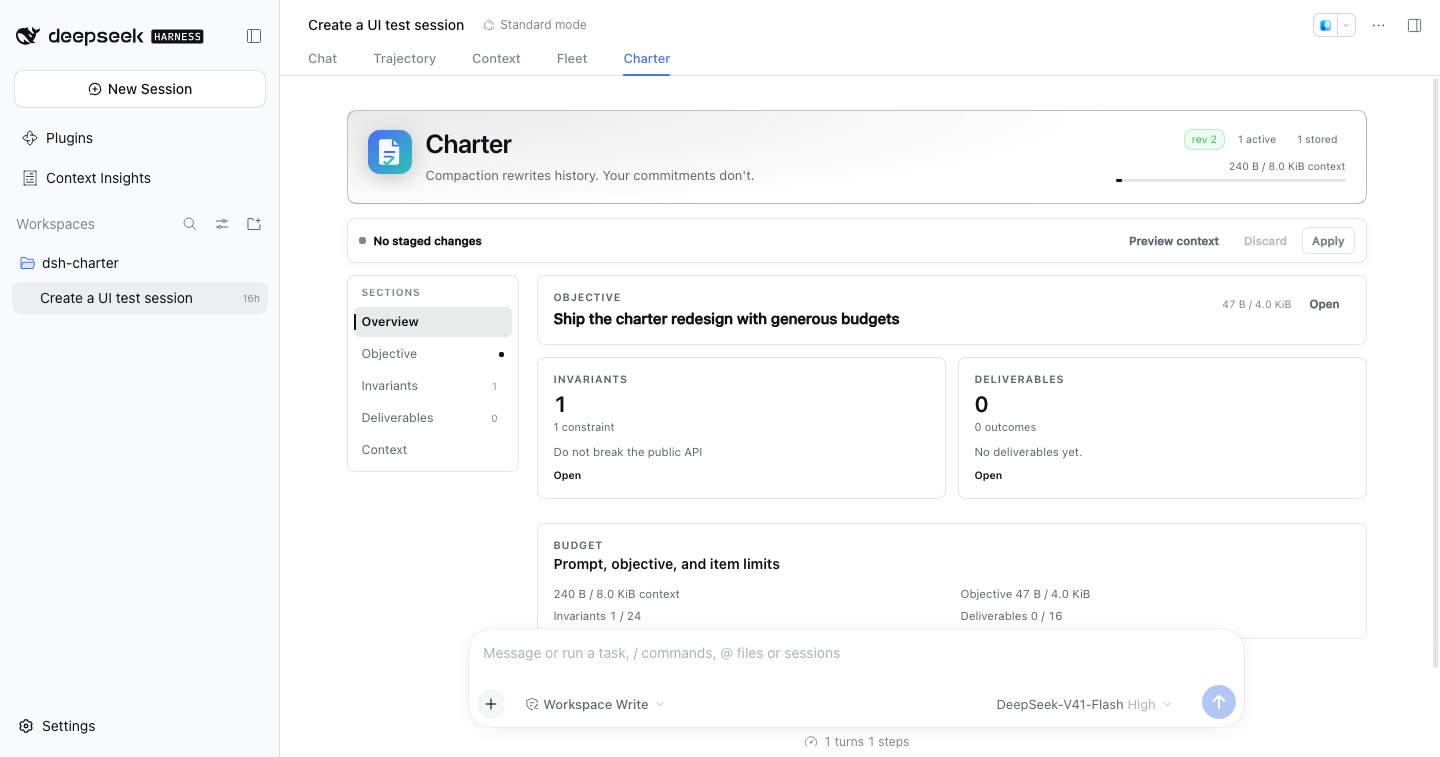
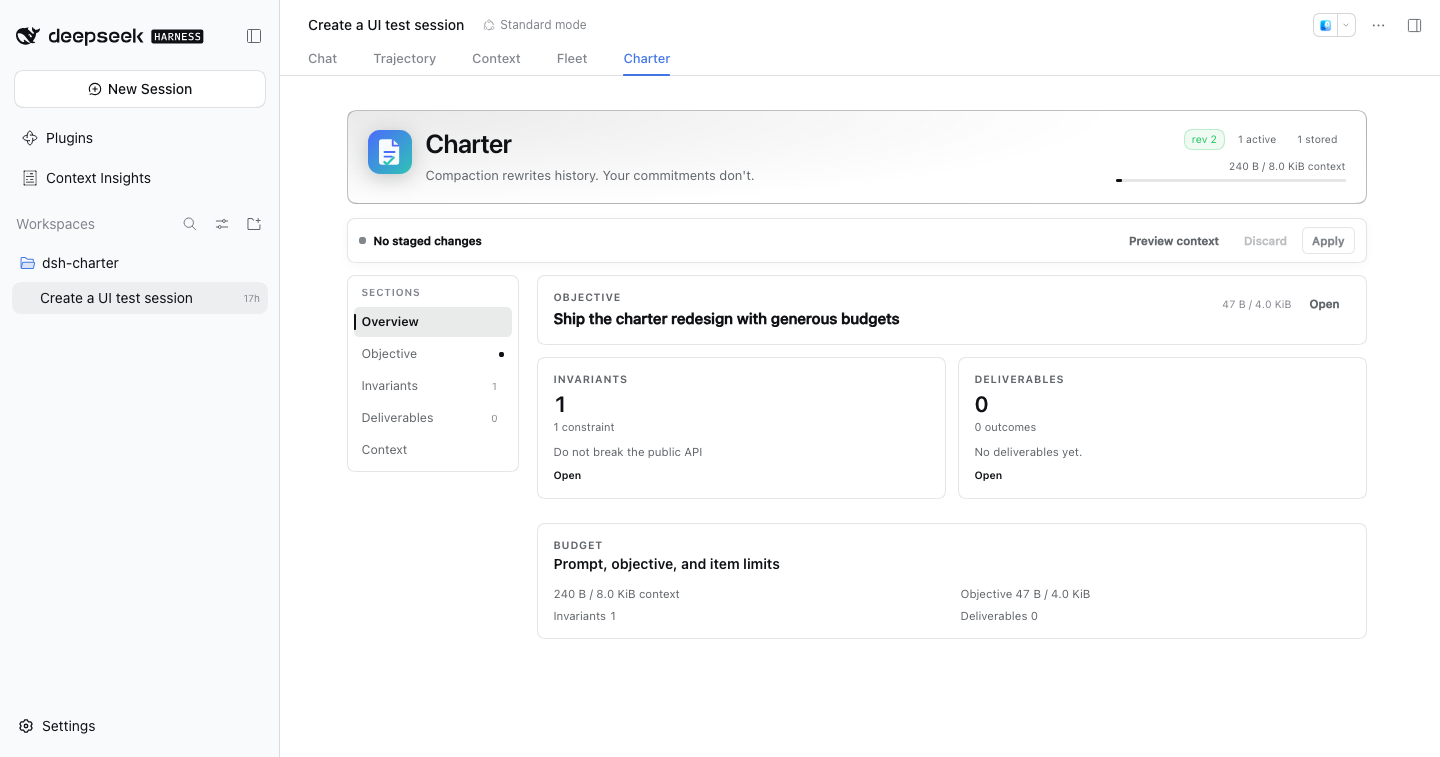
docs: document the full-surface charter view

diff --git a/docs/design/charter-design.md b/docs/design/charter-design.md
@@ -364,6 +364,8 @@ Layout and interaction principles:
 - A branded page header (mark, title, one-line slogan) carries revision/active/stored chips and a context-budget
   meter: *Compaction rewrites history. Your commitments don't.*
 - A sticky action toolbar keeps Preview/Discard/Apply visible while the pane scrolls.
+- While the view is active it owns the reading surface: the composer seat is hidden via a plugin-scoped `:has()`
+  rule, while the draft remains mounted and reappears on Chat. Approval/question/plan-review seats stay visible.
 - Overview is a dashboard: objective summary, invariant/deliverable cards, and budget breakdown. A large history
   draft gets its own tab, so it never pushes the working modules below the fold.
 - Objective and item tabs are focused editors; add composers live inside their section instead of a generic type

diff --git a/docs/design/charter-design.zh.md b/docs/design/charter-design.zh.md
@@ -562,6 +562,8 @@ ctx.slots.register({
 - 带品牌 mark 的页头包含标题、一句 slogan、修订/生效/存储 chip 和上下文预算条：
   “压缩会改写历史，但你的约定不会。”
 - 吸顶操作栏在滚动时保持预览/丢弃/应用可见。
+- 视图激活时独占阅读区域：通过插件作用域的 `:has()` 规则隐藏 composer seat，但草稿保持挂载，切回对话时
+  原样恢复；审批/提问/计划审阅 seat 保持可见。
 - 概览是 dashboard：目标摘要、约束/交付物卡片和预算明细。大块历史草案进入独立 tab，不再把工作模块挤到
   折叠线以下。
 - 目标和条目 tab 是聚焦编辑页；添加输入位于各自 section 内，不再使用通用类型切换。Enter 添加，

diff --git a/README.md b/README.md
@@ -183,6 +183,9 @@ has a left section navigation on wide screens and a horizontal tab strip on narr
 | **History** | Review a draft extracted from the latest compaction summary (only when available) |
 | **Context** | Exact user-role runtime context, bytes, and limits |
 
+While the Charter view is active it owns the whole reading surface: the chat composer is hidden, and its
+draft returns untouched when you switch back to **Chat**. Approval/question/plan-review seats stay visible.
+
 When a history draft has more candidates than the context budget can hold, the extra candidates are imported as
 **pending proposals** in the same atomic Apply. They remain visible and reviewable; nothing is rejected because
 of an arbitrary per-kind active-count cap.

diff --git a/README.zh.md b/README.zh.md
@@ -169,6 +169,9 @@ Desktop 可在 Plugins 页面安装同一个 tarball。源码开发流程见 [CO
 | **历史草案** | 审阅从最近压缩摘要抽取的草案（仅在有草案时出现） |
 | **上下文** | 精确的 user-role runtime context、字节数和限额 |
 
+「会话契约」激活时独占整个阅读区域：对话框会被隐藏，切回「对话」时草稿原样恢复。审批/提问/计划审阅
+等必须保留的输入位不会被隐藏。
+
 历史草案候选多于上下文预算时，多出的候选会在同一次原子 Apply 中保存为**待审提案**，仍然可见、可审阅；
 不会因为任意 per-kind active 条数上限而拒绝整个草案。
 

diff --git a/docs/verification.zh.md b/docs/verification.zh.md
@@ -420,6 +420,7 @@ DSH_HOME="$PWD/.tmp/webview/home" dsh --profile charterweb2 --no-open --port 193
 - 概览 dashboard 包含目标、约束/交付物卡片和预算明细，大块历史草案不再挤压工作模块；
 - 独立的目标/条目 tab，section 内联添加输入和 `0 B / 1.0 KiB` 计数；
 - hover/focus 出现的条目操作（编辑/替换/归档/标记验证）；
+- 会话契约激活时隐藏对话框；切回对话后未发送草稿仍然保留；
 - 明暗主题完全由 DSH 语义 token 驱动。
 
 截图：[中文浅色](assets/charter-pane.png)、[英文浅色](assets/charter-pane.en.png)。

diff --git a/docs/user-guide.zh.md b/docs/user-guide.zh.md
@@ -158,6 +158,9 @@ archived / rejected / superseded 条目仍计入“全部条目”配额。**Pur
 
 ## 4.1 预算与溢出
 
+「会话契约」标签激活时独占阅读区域：对话框隐藏，未发送的草稿保留；切回「对话」时恢复对话框和草稿。
+审批、提问和计划审阅等必须保留的输入位不会隐藏。
+
 标签页显示实时上下文预算条和每个字段的字节计数。任何内容都不会被静默截断：
 
 - 历史草案中的长条目按句子/分句边界拆成多个候选，全部保留。仍然超过单条上限的候选会高亮，Apply

diff --git a/docs/user-guide.md b/docs/user-guide.md
@@ -169,6 +169,10 @@ bounded by `maxItems` and `maxPendingItems`.
 
 ## 4.1 Budgets and overflow
 
+While the Charter tab is active it owns the reading surface: the chat composer is hidden and its unsent draft is
+preserved; switching back to **Chat** restores the composer and the draft. Approval, question, and plan-review
+seats remain visible.
+
 The tab shows a live context meter and per-field byte counters. Nothing is silently truncated:
 
 - Long history-draft items are split into multiple candidates at sentence/clause boundaries; every candidate is

diff --git a/docs/verification.md b/docs/verification.md
@@ -439,6 +439,7 @@ Chinese and English:
   draft no longer pushes the working sections down;
 - focused Objective and item tabs with inline add composers and `0 B / 1.0 KiB` counters;
 - hover/focus-revealed item actions (Edit / Replace / Archive / Verify);
+- while Charter is active the chat composer is hidden, and an unsent draft survives switching back to Chat;
 - light/dark themes driven entirely by DSH semantic tokens.
 
 Screenshots: [Chinese light](assets/charter-pane.png), [English light](assets/charter-pane.en.png).
